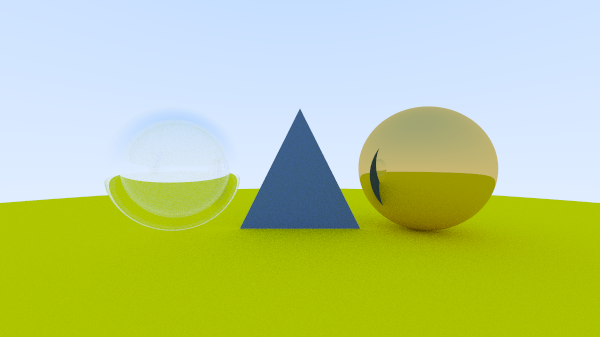
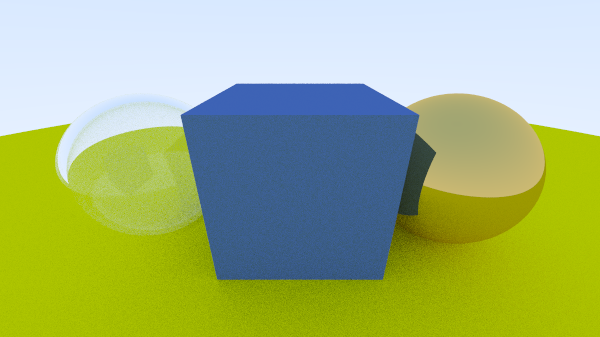
Load .obj file and render mesh

diff --git a/src/vec3.cpp b/src/vec3.cpp
@@ -2,29 +2,23 @@
 
 #include "util.h"
 
-vec3::vec3() : e{0,0,0} {}
+vec3::vec3() : x(0), y(0), z(0) {}
 
-vec3::vec3(double e0, double e1, double e2) : e{e0, e1, e2} {}
+vec3::vec3(double _x, double _y, double _z) : x(_x), y(_y), z(_z) {}
 
-double vec3::x() const { return e[0]; }
-double vec3::y() const { return e[1]; }
-double vec3::z() const { return e[2]; }
-
-vec3 vec3::operator-() const { return vec3(-e[0], -e[1], -e[2]); }
-double vec3::operator[](int i) const { return e[i]; }
-double& vec3::operator[](int i) { return e[i]; }
+vec3 vec3::operator-() const { return vec3(-x, -y, -z); }
 
 vec3& vec3::operator+=(const vec3 &v) {
-    e[0] += v.e[0];
-    e[1] += v.e[1];
-    e[2] += v.e[2];
+    x += v.x;
+    y += v.y;
+    z += v.z;
     return *this;
 }
 
 vec3& vec3::operator*=(double t) {
-    e[0] *= t;
-    e[1] *= t;
-    e[2] *= t;
+    x *= t;
+    y *= t;
+    z *= t;
     return *this;
 }
 
@@ -37,12 +31,12 @@ double vec3::length() const {
 }
 
 double vec3::length_squared() const {
-    return e[0]*e[0] + e[1]*e[1] + e[2]*e[2];
+    return x*x + y*y + z*z;
 }
 
 bool vec3::near_zero() const {
     double s = 1e-8;
-    return (fabs(e[0]) < s) && (fabs(e[1]) < s) && (fabs(e[2]) < s);
+    return (fabs(x) < s) && (fabs(y) < s) && (fabs(z) < s);
 }
 
 vec3 vec3::random() {
@@ -53,6 +47,10 @@ vec3 vec3::random(double min, double max) {
     return vec3(random_double(min,max), random_double(min,max), random_double(min,max));
 }
 
+vec3i::vec3i() : x(0), y(0), z(0) {}
+
+vec3i::vec3i(int _x, int _y, int _z) : x(_x), y(_y), z(_z) {}
+
 // point3 is just an alias for vec3, but useful for geometric clarity in the code.
 using point3 = vec3;
 
@@ -60,23 +58,23 @@ using point3 = vec3;
 // Vector Utility Functions
 
 std::ostream& operator<<(std::ostream &out, const vec3 &v) {
-    return out << v.e[0] << ' ' << v.e[1] << ' ' << v.e[2];
+    return out << v.x << ' ' << v.y << ' ' << v.z;
 }
 
 vec3 operator+(const vec3 &u, const vec3 &v) {
-    return vec3(u.e[0] + v.e[0], u.e[1] + v.e[1], u.e[2] + v.e[2]);
+    return vec3(u.x + v.x, u.y + v.y, u.z + v.z);
 }
 
 vec3 operator-(const vec3 &u, const vec3 &v) {
-    return vec3(u.e[0] - v.e[0], u.e[1] - v.e[1], u.e[2] - v.e[2]);
+    return vec3(u.x - v.x, u.y - v.y, u.z - v.z);
 }
 
 vec3 operator*(const vec3 &u, const vec3 &v) {
-    return vec3(u.e[0] * v.e[0], u.e[1] * v.e[1], u.e[2] * v.e[2]);
+    return vec3(u.x * v.x, u.y * v.y, u.z * v.z);
 }
 
 vec3 operator*(double t, const vec3 &v) {
-    return vec3(t*v.e[0], t*v.e[1], t*v.e[2]);
+    return vec3(t*v.x, t*v.y, t*v.z);
 }
 
 vec3 operator*(const vec3 &v, double t) {
@@ -88,15 +86,15 @@ vec3 operator/(vec3 v, double t) {
 }
 
 double dot(const vec3 &u, const vec3 &v) {
-    return u.e[0] * v.e[0]
-         + u.e[1] * v.e[1]
-         + u.e[2] * v.e[2];
+    return u.x * v.x
+         + u.y * v.y
+         + u.z * v.z;
 }
 
 vec3 cross(const vec3 &u, const vec3 &v) {
-    return vec3(u.e[1] * v.e[2] - u.e[2] * v.e[1],
-                u.e[2] * v.e[0] - u.e[0] * v.e[2],
-                u.e[0] * v.e[1] - u.e[1] * v.e[0]);
+    return vec3(u.y * v.z - u.z * v.y,
+                u.z * v.x - u.x * v.z,
+                u.x * v.y - u.y * v.x);
 }
 
 vec3 unit_vector(vec3 v) {

diff --git a/src/main.cpp b/src/main.cpp
@@ -2,6 +2,7 @@
 #include "sphere.h"
 #include "triangle.h"
 #include "camera.h"
+#include "mesh.h"
 
 int main() {
     HittableList world;
@@ -11,23 +12,23 @@ int main() {
     auto material_left   = make_shared<Dielectric>(1.5);
     auto material_right  = make_shared<Metal>(color(0.8, 0.6, 0.2), 0.0);
 
-    world.add(make_shared<Sphere>(point3( 0.0, -100.5, -1.0), 100.0, material_ground));
-    world.add(make_shared<Triangle>(point3(-0.5, -0.5, -1.0), point3(0.5, -0.5, -1.0), point3(0.0, 0.5, -1.0), material_center));
-    world.add(make_shared<Sphere>(point3(-1.0,    0.0, -1.0),   0.5, material_left));
-    world.add(make_shared<Sphere>(point3(-1.0,    0.0, -1.0),  -0.4, material_left));
-    world.add(make_shared<Sphere>(point3( 1.0,    0.0, -1.0),   0.5, material_right));
+    world.add(make_shared<Sphere>(point3( 0.0, -101.0, 0.0), 100.0, material_ground));
+    world.add(make_shared<Mesh>("../res/models/cube.obj", material_center));
+    world.add(make_shared<Sphere>(point3(-2.0, 0.0, 0.0),   1.0, material_left));
+    world.add(make_shared<Sphere>(point3(-2.0, 0.0, 0.0),  -0.9, material_left));
+    world.add(make_shared<Sphere>(point3( 2.0, 0.0, 0.0),   1.0, material_right));
 
     Camera cam;
 
     cam.aspect_ratio      = 16.0 / 9.0;
     cam.image_width       = 600;
-    cam.samples_per_pixel = 100;
-    cam.max_depth         = 50;
+    cam.samples_per_pixel = 64;
+    cam.max_depth         = 128;
 
     cam.vfov     = 70;
-    cam.lookfrom = point3(0,0,1);
-    cam.lookat   = point3(0,0,-1);
-    cam.vup      = vec3(0,1,0);
+    cam.lookfrom = point3(0, 1.5, 3);
+    cam.lookat   = point3(0, 0, 0);
+    cam.vup      = vec3(0, 1, 0);
 
     cam.render(world);
 }

diff --git a/src/mesh.cpp b/src/mesh.cpp
@@ -1,0 +1,28 @@
+#include "mesh.h"
+
+#include "obj_loader.h"
+#include "triangle.h"
+
+Mesh::Mesh(const char* filepath, shared_ptr<Material> _material) : mat(_material) {
+    vertices = std::vector<vec3>();
+    indices = std::vector<vec3i>();
+    load_obj(filepath, vertices, indices);
+}
+
+bool Mesh::hit(const Ray &r, Interval ray_t, HitRecord &rec) const {
+    HitRecord temp_rec;
+    bool hit_anything = false;
+    double closest_so_far = ray_t.max;
+
+    for (const vec3i tri_indices : indices) {
+        Triangle triangle = Triangle(vertices[tri_indices.x], vertices[tri_indices.y], vertices[tri_indices.z], mat);
+
+        if (triangle.hit(r, Interval(ray_t.min, closest_so_far), temp_rec)) {
+            hit_anything = true;
+            closest_so_far = temp_rec.t;
+            rec = temp_rec;
+        }
+    }
+
+    return hit_anything;
+}

diff --git a/src/obj_loader.cpp b/src/obj_loader.cpp
@@ -1,0 +1,32 @@
+#include "obj_loader.h"
+
+#include <fstream>
+#include <string>
+#include <sstream>
+#include <iostream>
+
+using std::ifstream;
+using std::string;
+using std::istringstream;
+
+void load_obj(const char* filepath, std::vector<vec3> &vertices, std::vector<vec3i> &indices) {
+    ifstream file(filepath);
+
+    string line;
+    
+    while (std::getline(file, line)) {
+        if (line.substr(0, 2) == "v ") {
+            istringstream l(line.substr(2));
+            double x, y, z;
+            l >> x; l >> y; l >> z;
+
+            vertices.push_back(vec3(x, y, z));
+        } else if (line.substr(0, 2) == "f ") {
+            const char* l = line.c_str();
+            int a, b, c;
+            sscanf(l, "f %i %i %i", &a, &b, &c);
+
+            indices.push_back(vec3i(a - 1, b - 1, c - 1));
+        }
+    }
+}

diff --git a/src/triangle.cpp b/src/triangle.cpp
@@ -33,14 +33,14 @@ bool Triangle::hit(const Ray &r, Interval ray_t, HitRecord &rec) const {
     // Compute t to find intersection point
     double t = inv_det * dot(edge2, s_cross_e1);
 
-    if (t > epsilon) {
-        rec.t = t;
-        rec.p = r.at(rec.t);
-        vec3 outward_normal = unit_vector(cross(edge1, edge2));
-        rec.set_face_normal(r, outward_normal);
-        rec.mat = mat;
-        return true;
+    if (!ray_t.surrounds(t)) {
+        return false;
     }
 
-    return false;
+    rec.t = t;
+    rec.p = r.at(rec.t);
+    vec3 outward_normal = unit_vector(cross(edge1, edge2));
+    rec.set_face_normal(r, outward_normal);
+    rec.mat = mat;
+    return true;
 }

diff --git a/src/vec3.h b/src/vec3.h
@@ -5,18 +5,12 @@
 
 class vec3 {
   public:
-    double e[3];
+    double x, y, z;
 
     vec3();
-    vec3(double e0, double e1, double e2);
-
-    double x() const;
-    double y() const;
-    double z() const;
+    vec3(double _x, double _y, double _z);
 
     vec3 operator-() const;
-    double operator[](int i) const;
-    double& operator[](int i);
 
     vec3& operator+=(const vec3 &v);
 
@@ -33,6 +27,14 @@ class vec3 {
     static vec3 random();
 
     static vec3 random(double min, double max);
+};
+
+class vec3i {
+  public:
+  int x, y, z;
+
+  vec3i();
+  vec3i(int _x, int _y, int _z);
 };
 
 // point3 is just an alias for vec3, but useful for geometric clarity in the code.

diff --git a/src/color.cpp b/src/color.cpp
@@ -9,9 +9,9 @@ double linear_to_gamma(double linear_component) {
 }
 
 void write_color(std::ostream &out, color pixel_color, int samples_per_pixel) {
-    double r = pixel_color.x();
-    double g = pixel_color.y();
-    double b = pixel_color.z();
+    double r = pixel_color.x;
+    double g = pixel_color.y;
+    double b = pixel_color.z;
 
     // Divide the color by the number of samples.
     double scale = 1.0 / samples_per_pixel;

diff --git a/src/mesh.h b/src/mesh.h
@@ -1,0 +1,14 @@
+#include <vector>
+
+#include "hittable.h"
+
+class Mesh : public Hittable {
+  public:
+    Mesh(const char* filepath, shared_ptr<Material> _material);
+
+    bool hit(const Ray &r, Interval ray_t, HitRecord &rec) const override;
+  private:
+    std::vector<vec3> vertices;
+    std::vector<vec3i> indices;
+    shared_ptr<Material> mat;
+};

diff --git a/src/camera.cpp b/src/camera.cpp
@@ -89,6 +89,6 @@ color Camera::ray_color(const Ray &r, int depth, const Hittable &world) const {
     }
 
     vec3 unit_direction = unit_vector(r.direction());
-    double a = 0.5*(unit_direction.y() + 1.0);
+    double a = 0.5*(unit_direction.y + 1.0);
     return (1.0-a)*color(1.0, 1.0, 1.0) + a*color(0.5, 0.7, 1.0);
 }

diff --git a/src/obj_loader.h b/src/obj_loader.h
@@ -1,0 +1,7 @@
+#pragma once
+
+#include <vector>
+
+#include "vec3.h"
+
+void load_obj(const char* filepath, std::vector<vec3> &vertices, std::vector<vec3i> &indices);
